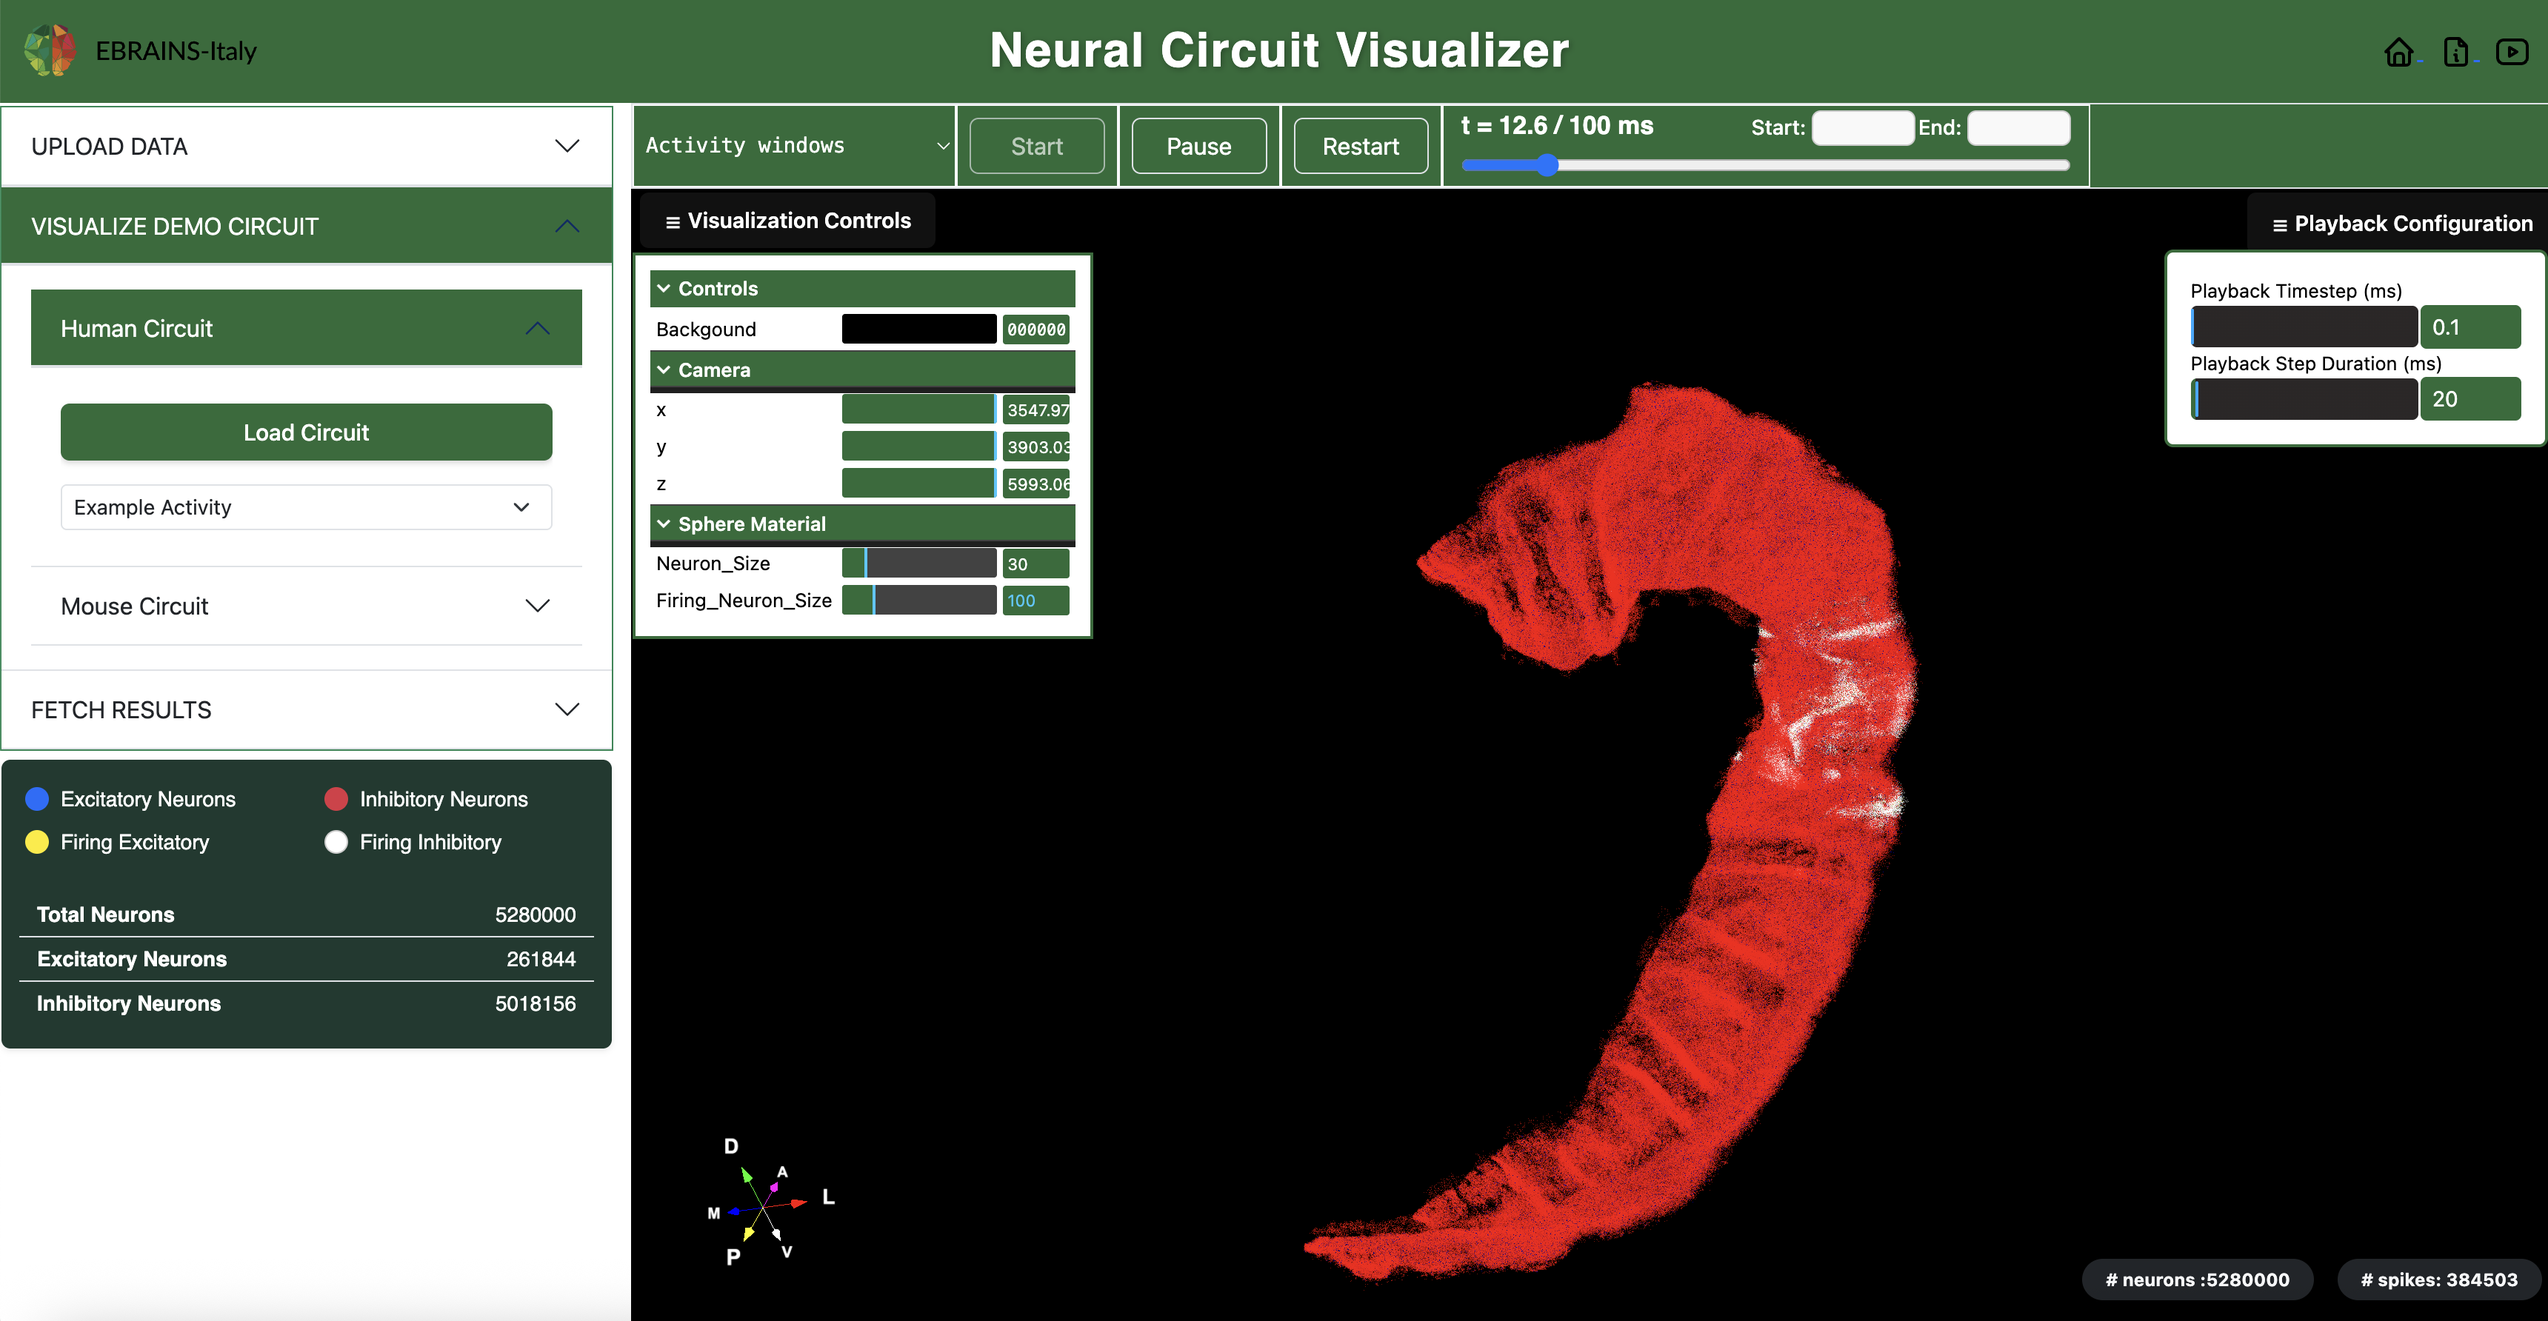
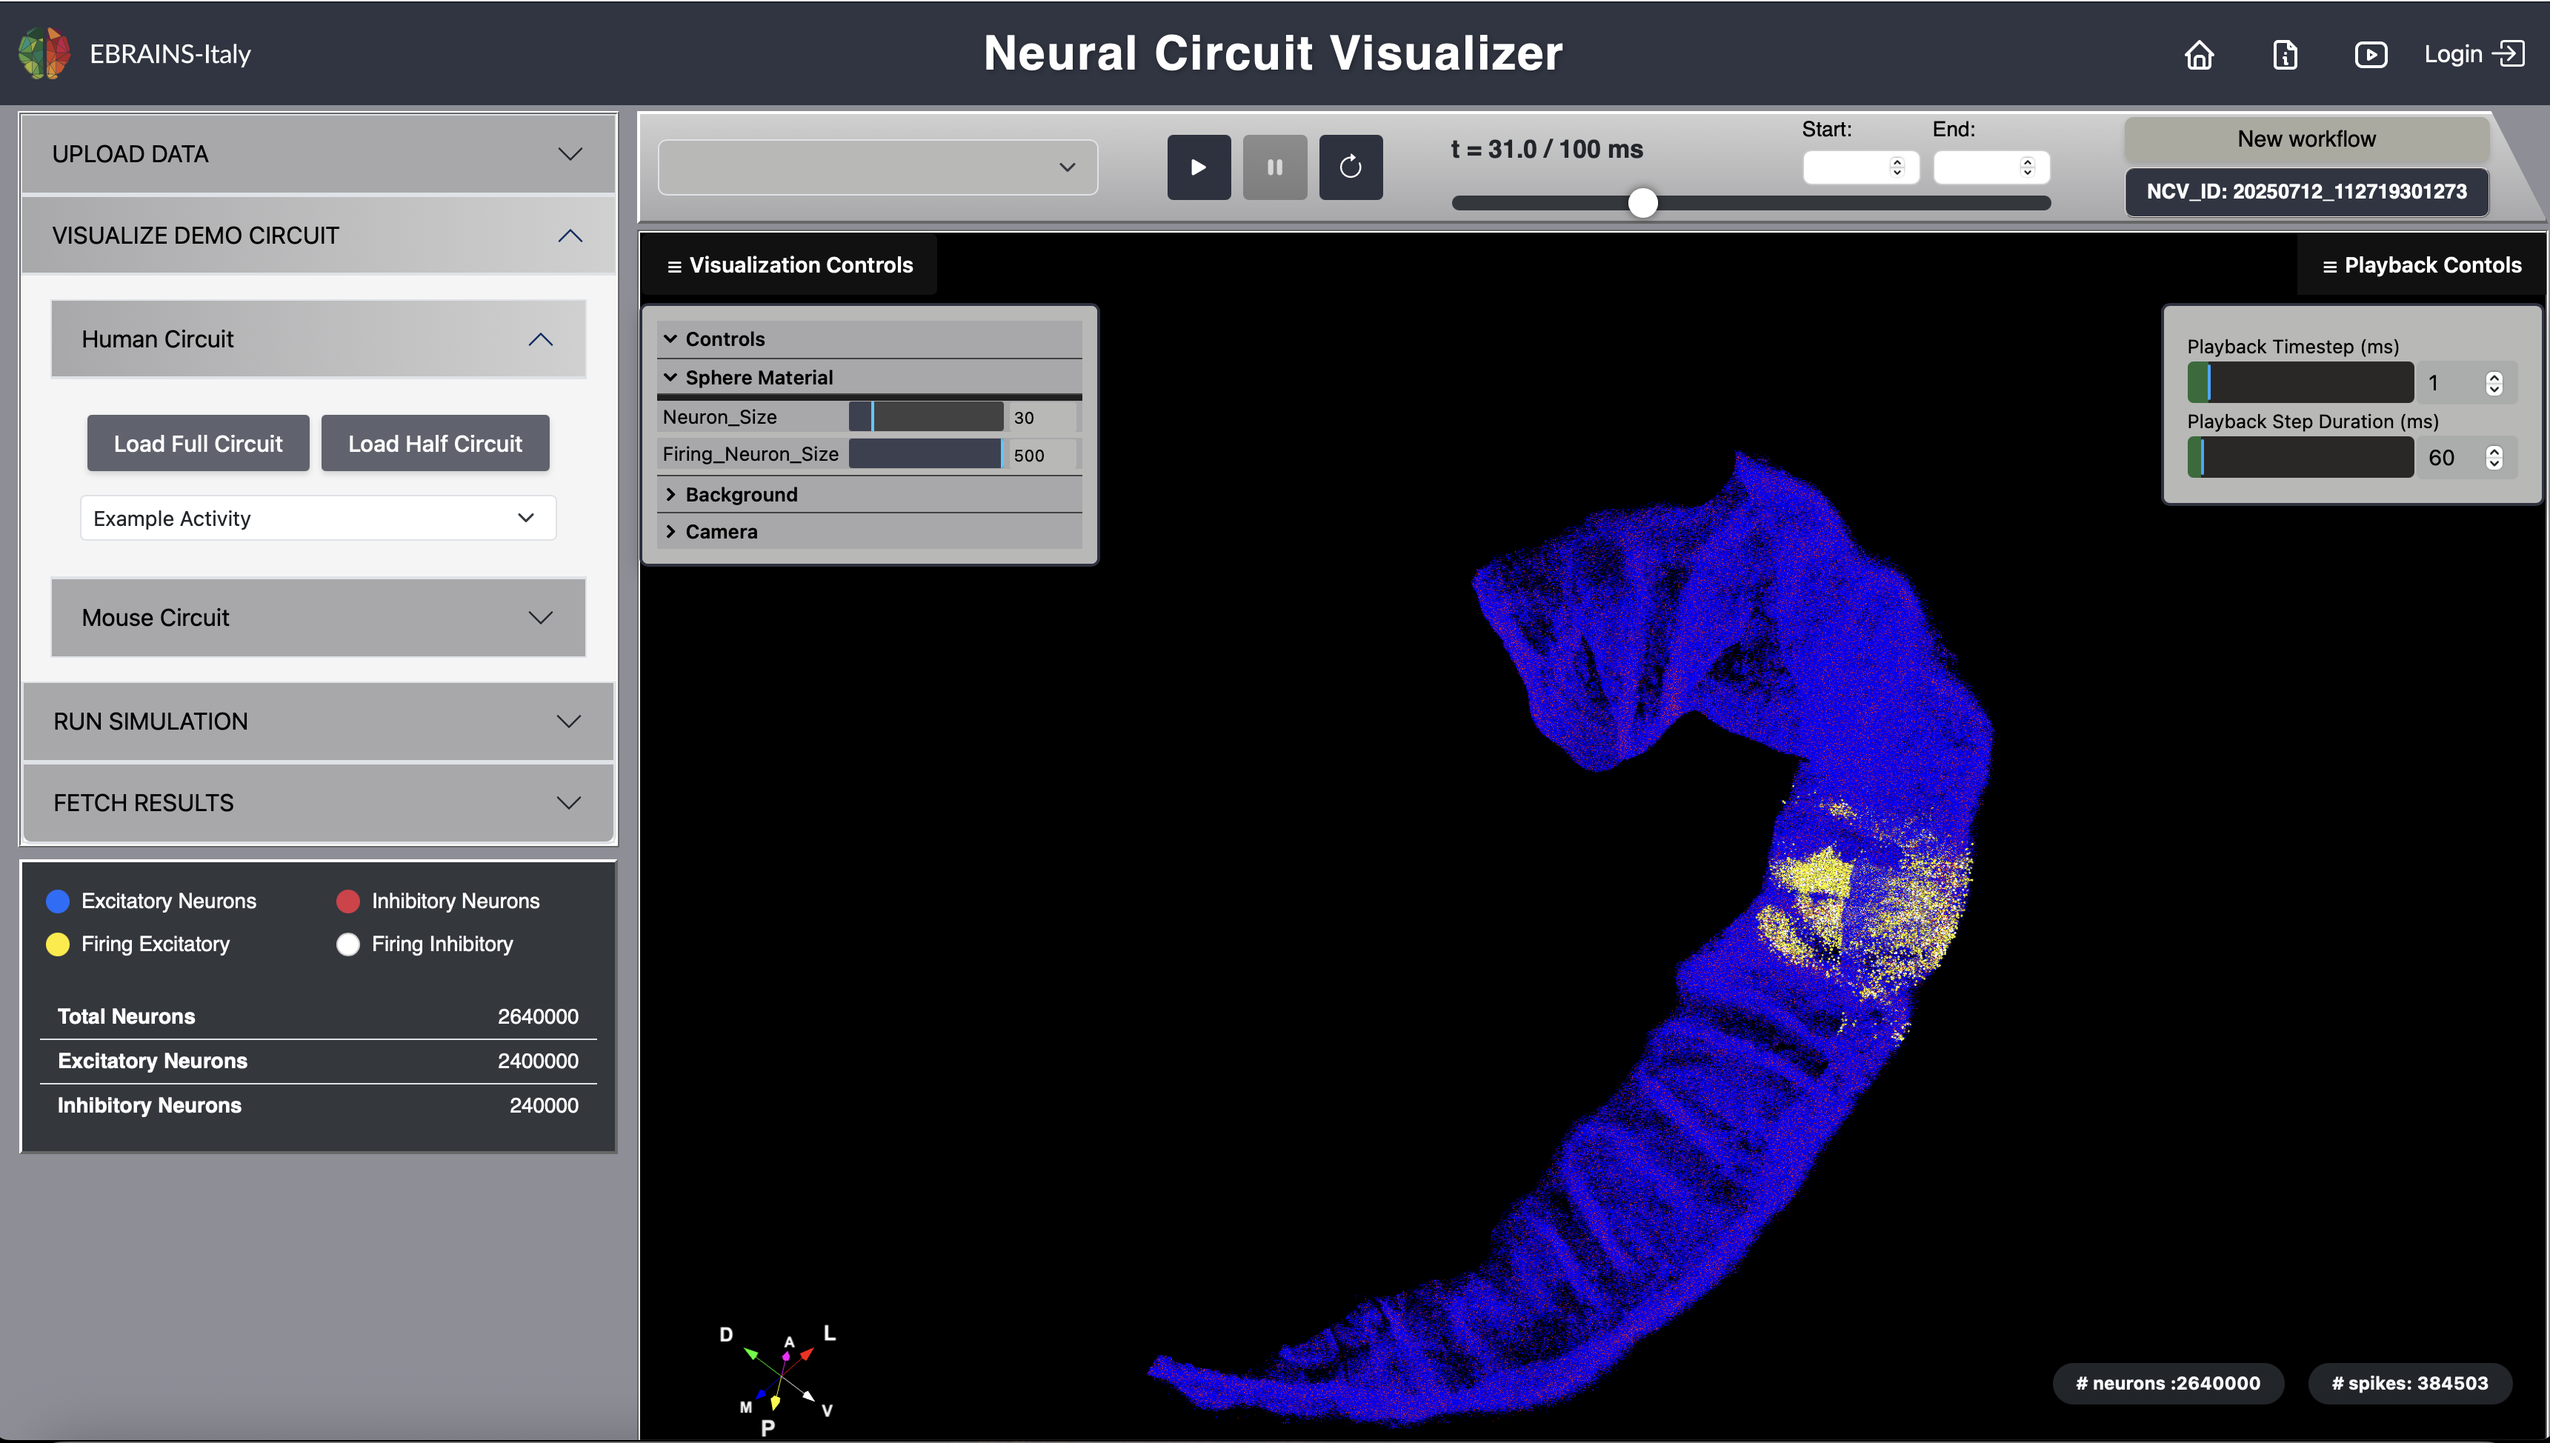
Update Histogram and user guide

diff --git a/static/js/main.js b/static/js/main.js
@@ -22,6 +22,7 @@ let timeRanges;
 let customRanges;
 let flag = false;
 let ishuman = false;
+let ishalf = false;
 let flagact = false;
 let count = 0.0;
 let x = 0.0;
@@ -342,6 +343,7 @@ window.addEventListener("load", function () {
     document.getElementById("progress-percentage").style.display = "none";
     document.getElementById("page-loader").style.display = "block";
     LoadHumanHipForm("half"); // Pass "half"
+    ishalf = true;
     dropdown.innerHTML = "";
   });
 });
@@ -552,6 +554,8 @@ networkFileInput.addEventListener("change", async (event) => {
       }
 
       flag = true;
+
+      if (total_neurons > 5200000) ishuman = true;
       VisualizateNeurons();
       resetCamera();
       centerCameraToObject(particles);
@@ -659,6 +663,8 @@ hdfFileInput.addEventListener("change", async (event) => {
           NetworkArray.push(file.fileData);
           total_neurons += file.total_neuros;
         });
+
+        if (total_neurons > 5000000) ishuman = true;
 
         flag = true;
         VisualizateNeurons();
@@ -1317,23 +1323,44 @@ function VisualizateNeurons() {
 
   if (flag) {
     if (ishuman) {
-      NetworkArray.forEach((net) => {
-        net.forEach((p) => {
-          const x = p.x * scalingFactor;
-          const y = p.y * scalingFactor;
-          const z = p.z * scalingFactor;
-          positions.push(x, y, z);
-          sizes.push(30);
-          gIDs.push(p.id);
+      if (ishalf) {
+        NetworkArray.forEach((net) => {
+          net.forEach((p) => {
+            const x = p.x * scalingFactor;
+            const y = p.y * scalingFactor;
+            const z = p.z * scalingFactor;
+            positions.push(x, y, z);
+            sizes.push(30);
+            gIDs.push(p.id);
 
-          p.id > 120000 ? (vertexColors.push(0, 0, 1), total_excitatory++) : (vertexColors.push(1, 0, 0), total_inhibitory++);
+            p.id < 2400001 ? (vertexColors.push(0, 0, 1), total_excitatory++) : (vertexColors.push(1, 0, 0), total_inhibitory++);
 
-          totalX += x;
-          totalY += y;
-          totalZ += z;
+            totalX += x;
+            totalY += y;
+            totalZ += z;
+          });
+          totalParticles += net.length;
         });
-        totalParticles += net.length;
-      });
+        ishalf = false;
+      } else {
+        NetworkArray.forEach((net) => {
+          net.forEach((p) => {
+            const x = p.x * scalingFactor;
+            const y = p.y * scalingFactor;
+            const z = p.z * scalingFactor;
+            positions.push(x, y, z);
+            sizes.push(30);
+            gIDs.push(p.id);
+
+            p.id < 4800001 ? (vertexColors.push(0, 0, 1), total_excitatory++) : (vertexColors.push(1, 0, 0), total_inhibitory++);
+
+            totalX += x;
+            totalY += y;
+            totalZ += z;
+          });
+          totalParticles += net.length;
+        });
+      }
       ishuman = false;
     } else {
       NetworkArray.forEach((net) => {

diff --git a/templates/docs.html b/templates/docs.html
@@ -81,7 +81,7 @@
         bottom: 30px;
         right: 30px;
         z-index: 999;
-        background-color: #2a6b38;
+        background-color: #2f3542;
         color: white;
         border: none;
         border-radius: 50%;
@@ -145,7 +145,7 @@
   <body>
     <!-- Header -->
     <div class="container-fluid g-0" style="position: fixed; top: 0; left: 0; right: 0; z-index: 1000">
-      <div class="row align-items-center py-3 px-2 header-row" style="background-color: #2a6b38">
+      <div class="row align-items-center py-3 px-2 header-row" style="background-color: #2f3542">
         <div class="col-12 col-md-3 text-center text-md-start mb-2 mb-md-0">
           <img src="{% static 'img/logoEscritta.svg' %}" alt="Logo" style="max-height: 60px" />
         </div>
@@ -176,7 +176,7 @@
     <!-- Main Content -->
     <div class="container py-4">
       <h1 style="margin-top: 6vw">Neural Circuit Visualizer (NCV) – User Guide</h1>
-      <p><em>Version 1.0, April 2025</em></p>
+      <p><em>Version 1.0, July 2025</em></p>
 
       <!-- Sections -->
       <div class="section" id="overview">
@@ -184,7 +184,7 @@
         <p>
           The
           <strong>Neural Circuit Visualizer (NCV)</strong>
-          is a web-based application that enables users to interactively upload, visualize, and analyze large-scale hippocampal neuron circuits. The platform supports a streamlined workflow from network and activity file upload to dynamic 3D circuit visualization and spike playback.
+          is a web-based application that enables users to interactively upload, visualize, configure and analyze full-scale point-neuron circuits. The platform supports a streamlined workflow from network and activity file upload to dynamic 3D circuit visualization and spike playback.
         </p>
         <ol>
           <li>
@@ -228,6 +228,16 @@
           </ul>
         </div>
         <div class="screenshot"><img src="{% static 'img/docs/uploadData.png' %}" alt="Upload Data Screenshot" /></div>
+        <h4>Example Files</h4>
+        <ul>
+          <li>
+            <a href="{% static 'examples/example_network.csv' %}" download>Download Example .CSV</a>
+          </li>
+
+          <li>
+            <a href="{% static 'examples/example_data.hdf5' %}" download>Download Example HDF5</a>
+          </li>
+        </ul>
 
         <h3>Upload Process</h3>
         <ol>
@@ -550,7 +560,7 @@
 
       <div class="section" id="url">
         <h2>Platform URL</h2>
-        <p><a href="https://hcv.ebrains-italy.eu/" target="_blank">https://hcv.ebrains-italy.eu/</a></p>
+        <p><a href="https://ncv.ebrains-italy.eu/" target="_blank">https://ncv.ebrains-italy.eu/</a></p>
       </div>
     </div>
 

diff --git a/api/views.py b/api/views.py
@@ -420,46 +420,57 @@ def generate_spike_histogram(chunk_data, chunk_number, bins=100, color="white"):
         if not chunk_data or not isinstance(chunk_data, dict):
             return "Error: No data available for plotting."
 
-        # Convert all spike times to float for histogram binning
+        # Convert spike times and collect active neurons
         all_spike_times = []
         active_neurons = set()
         for t_str, gids in chunk_data.items():
             t = float(t_str)
-            all_spike_times.extend([t] * len(gids))  # Repeat time per spiking GID
+            all_spike_times.extend([t] * len(gids))
             active_neurons.update(gids)
 
-        # Compute histogram data
-        t_min, t_max = min(all_spike_times), max(all_spike_times)
+        if not all_spike_times:
+            return "Error: No spike times in chunk data."
+
+        # Sort times to get actual range
+        min_time = min(all_spike_times)
+        max_time = max(all_spike_times)
+
+        # Set time range based on chunk number
+        if str(chunk_number) == "0":
+            t_min = 0  # Start Chunk 0 from 0 ms
+        else:
+            t_min = min_time  # Start other chunks from first spike time
+
+        t_max = max_time  # End all chunks at last spike time
+
+        # Compute histogram
         bin_edges = np.linspace(t_min, t_max, bins + 1)
         spike_counts, _ = np.histogram(all_spike_times, bins=bin_edges)
 
         # Compute Mean Firing Rate (MFR)
         total_spikes = len(all_spike_times)
         total_neurons = len(active_neurons)
-        total_time_sec = (t_max - t_min) / 1000.0  # convert ms to seconds
+        total_time_sec = (t_max - t_min) / 1000.0  # ms → seconds
         mfr = (total_spikes / total_neurons) / total_time_sec if total_neurons > 0 and total_time_sec > 0 else 0
-        # Create figure and axis
+
+        # Plot histogram
         fig, ax = plt.subplots(figsize=(12, 6), dpi=300)
         fig.patch.set_facecolor("#33373d")
         ax.set_facecolor("#33373d")
 
-        # Plot histogram
         bars = ax.bar(bin_edges[:-1], spike_counts, width=np.diff(bin_edges), color=color, alpha=0.7, edgecolor="black")
 
-        # Annotate bars for legend
+        # Annotate legend
         legend_labels = {
             "# Max Spike": max(spike_counts),
             "# Min Spike": min(spike_counts),
             "# Spikes": total_spikes,
             "# Neurons": total_neurons,
+            "# Min Time (ms)": round(t_min, 1),
+            "# Max Time (ms)": round(t_max, 1),
         }
         legend_text = "\n".join([f"{key}: {value}" for key, value in legend_labels.items()])
-        plt.gcf().text(
-            0.80, 0.79, legend_text,
-            fontsize=8,
-            bbox=dict(facecolor='white', alpha=0.5),
-            color='black'
-        )
+        plt.gcf().text(0.80, 0.79, legend_text, fontsize=8, bbox=dict(facecolor='white', alpha=0.5), color='black')
 
         ax.set_xlim(t_min, t_max)
         ax.set_xlabel("Time (ms)", fontsize=16, fontweight="bold", color="white")
@@ -474,6 +485,7 @@ def generate_spike_histogram(chunk_data, chunk_number, bins=100, color="white"):
         for label in ax.get_xticklabels() + ax.get_yticklabels():
             label.set_color("white")
 
+        # Convert to base64 image
         img_buffer = io.BytesIO()
         plt.savefig(img_buffer, format="png", bbox_inches="tight", dpi=300, facecolor=fig.get_facecolor())
         img_buffer.seek(0)
@@ -481,8 +493,10 @@ def generate_spike_histogram(chunk_data, chunk_number, bins=100, color="white"):
         plt.close()
 
         return img_base64
+
     except Exception as e:
         return f"Error generating spike histogram: {str(e)}"
+
 
 
 def generate_network_graph(network_data):
